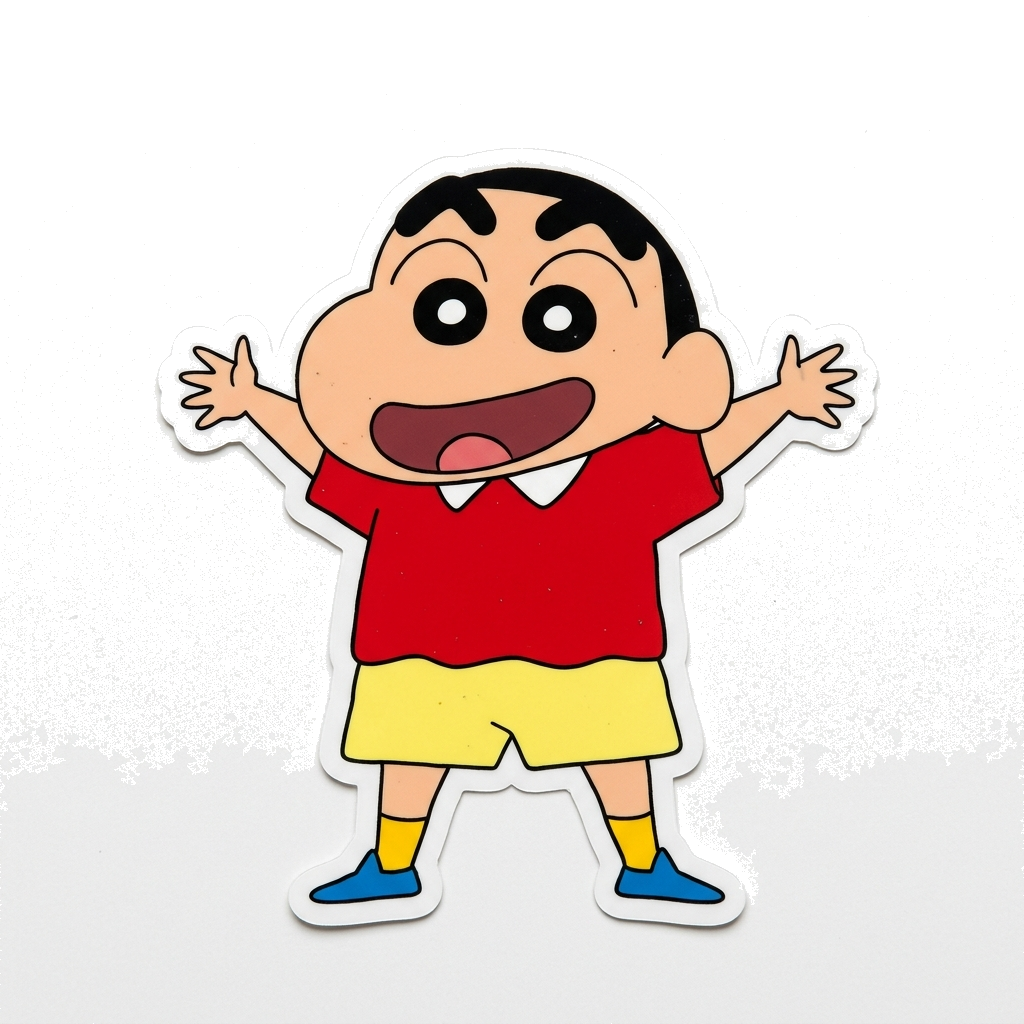
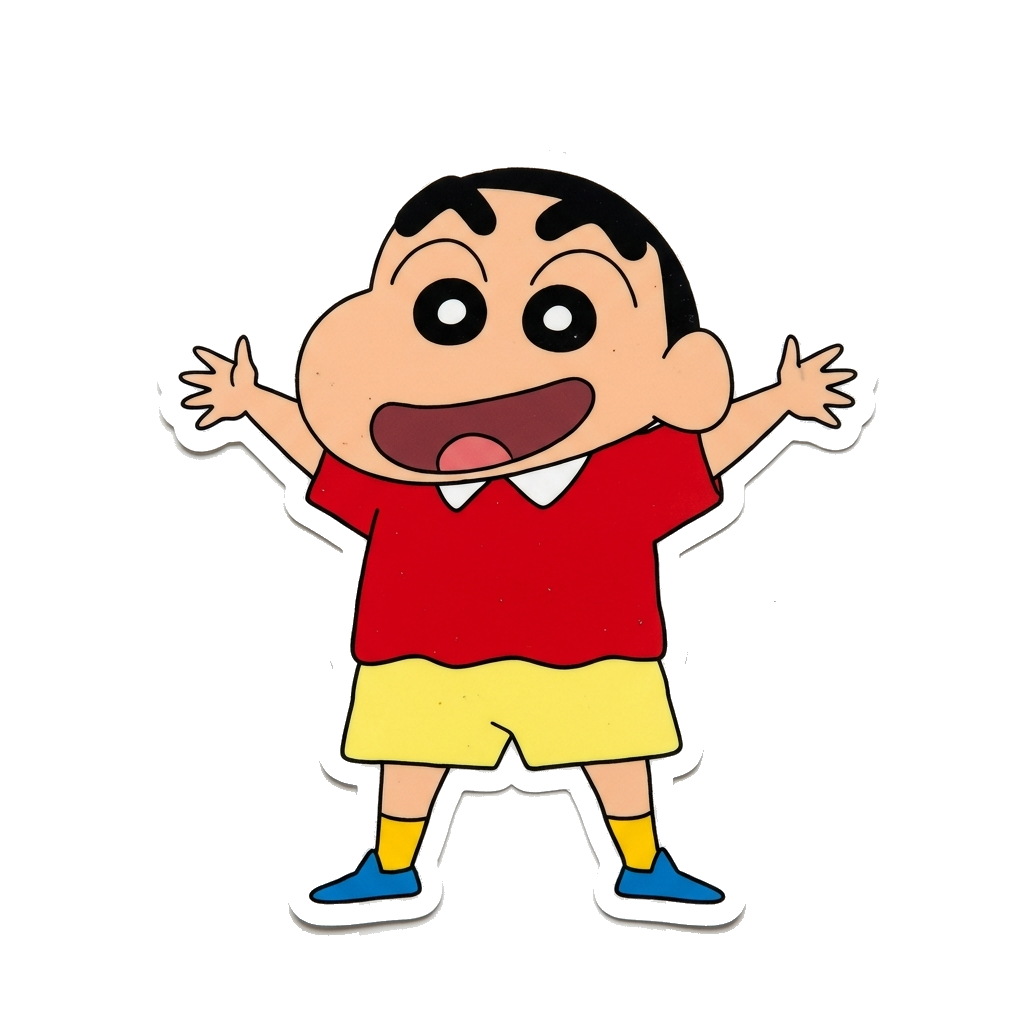
Update YOU ARE MY page: change food/clothes stealer to cloth stealer, clean Shin-chan background

diff --git a/src/components/pages/YouAreMyPage.jsx b/src/components/pages/YouAreMyPage.jsx
@@ -68,15 +68,15 @@ export const YouAreMyPage = ({ onBack }) => {
           </svg>
         </motion.div>
 
-        {/* 3. Food/Clothes Stealer (Middle Left) */}
+        {/* 3. Cloth Stealer (Middle Left) */}
         <motion.div 
           initial={{ opacity: 0, x: -10 }}
           animate={{ opacity: 1, x: 0 }}
           transition={{ delay: 0.1 }}
           className="absolute top-[36%] left-0 z-20"
         >
-          <span className="font-patrick text-sm sm:text-base font-bold text-amber-900 transform rotate-3 inline-block bg-amber-50/90 px-2 py-0.5 rounded border border-amber-300 shadow-sm max-w-[130px] leading-tight">
-            food/clothes stealer 🍟
+          <span className="font-patrick text-sm sm:text-base font-bold text-amber-900 transform rotate-3 inline-block bg-amber-50/90 px-2 py-0.5 rounded border border-amber-300 shadow-sm leading-tight">
+            cloth stealer 👗
           </span>
           <svg className="w-12 h-6 overflow-visible mt-0.5 ml-8" fill="none">
             <path d="M 0 5 Q 15 5 28 8" stroke="#D97706" strokeWidth="2" strokeLinecap="round" strokeDasharray="3 3" />
@@ -91,7 +91,7 @@ export const YouAreMyPage = ({ onBack }) => {
           transition={{ delay: 0.1 }}
           className="absolute top-[36%] right-0 z-20 text-right"
         >
-          <span className="font-patrick text-sm sm:text-base font-bold text-emerald-900 transform -rotate-4 inline-block bg-amber-50/90 px-2 py-0.5 rounded border border-emerald-300 shadow-sm max-w-[130px] leading-tight">
+          <span className="font-patrick text-sm sm:text-base font-bold text-emerald-900 transform -rotate-4 inline-block bg-amber-50/90 px-2 py-0.5 rounded border border-emerald-300 shadow-sm leading-tight">
             bank account 💳
           </span>
           <svg className="w-12 h-6 overflow-visible mt-0.5 mr-8 ml-auto" fill="none">

diff --git a/src/config/scrapbookData.js b/src/config/scrapbookData.js
@@ -132,7 +132,7 @@ export const scrapbookConfig = {
       },
       {
         id: "phrase-3",
-        text: "food/clothes stealer",
+        text: "cloth stealer",
         top: "34%",
         left: "3%",
         rotation: "4deg"
